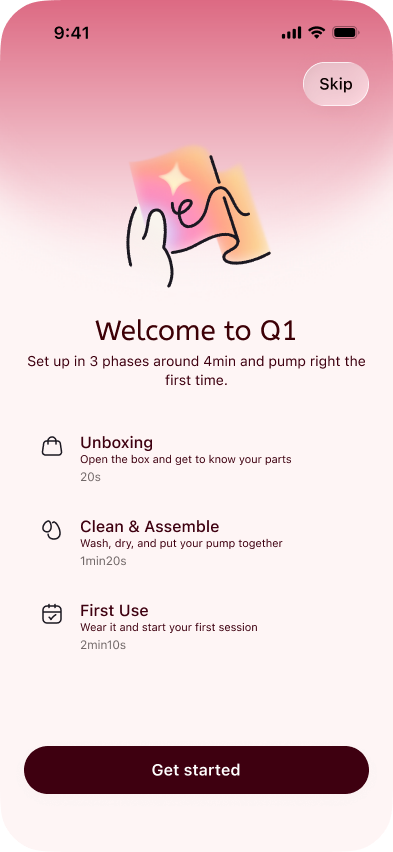
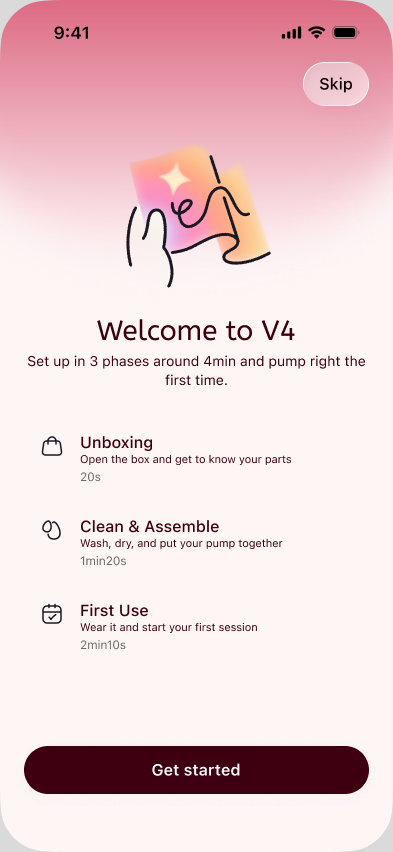
feat: sync updated figma pump screens

diff --git a/demo/feeding-care-flow/app.js b/demo/feeding-care-flow/app.js
@@ -1,5 +1,5 @@
 const ENTRY = document.body.dataset.entry || "launcher";
-const VERSION = "0.3.12";
+const VERSION = "0.3.13";
 const STORAGE_KEY = ENTRY === "home"
   ? `momcozy-figma-755-demo-v${VERSION}-home`
   : `momcozy-figma-755-demo-v3-${ENTRY}`;
@@ -48,6 +48,7 @@ const defaults = {
   trainingDone: false,
   codeDigit: "",
   pumpRunning: false,
+  pumpPaused: false,
   sessionLogged: false,
   leftVolume: 0,
   rightVolume: 0
@@ -237,7 +238,7 @@ function screenMarkup(kind) {
     ? `<span class="volume-value left" aria-live="polite">${state.leftVolume}<small>ml</small></span><span class="volume-value right" aria-live="polite">${state.rightVolume}<small>ml</small></span>`
     : "";
   const deviceOverlay = screen.image === "home-07-dashboard.png"
-    ? `<span class="dashboard-device-frame" aria-hidden="true"><img src="./assets/figma-755/home-dashboard-v3-device.png" width="138" height="104" alt="" draggable="false" /></span>`
+    ? `<span class="dashboard-device-frame" aria-hidden="true"><img src="./assets/figma-755/home-pump-control-device.png" width="182" height="138" alt="" draggable="false" /></span>`
     : "";
   const pumpControlDevice = screen.image === "home-03-control.png"
     ? `<span class="pump-control-device" aria-hidden="true"><img src="./assets/figma-755/home-pump-control-device.png" width="182" height="138" alt="" draggable="false" /></span>`
@@ -247,7 +248,10 @@ function screenMarkup(kind) {
     : "";
   const finishAction = screen.id === "pump-running" ? "hospital-finish-pump" : screen.id === "pumping" ? "finish-pump" : "";
   const holdControl = finishAction
-    ? `<button type="button" class="hold-to-finish" data-hold-action="${finishAction}" aria-label="长按结束本次吸乳" aria-pressed="false"><span>Hold to finish</span></button>`
+    ? `<div class="pumping-actions">
+        <button type="button" class="hold-to-finish" data-hold-action="${finishAction}" aria-label="长按结束本次吸乳" aria-pressed="false"><span>Hold to Finish</span></button>
+        <button type="button" class="pump-pause ${state.pumpPaused ? "paused" : ""}" data-action="toggle-pump-pause" aria-label="${state.pumpPaused ? "继续吸乳" : "暂停吸乳"}" aria-pressed="${state.pumpPaused}">${state.pumpPaused ? icon("play", "继续吸乳") : '<img src="./assets/figma-755/pump-pause.svg" width="20" height="20" alt="" draggable="false" />'}</button>
+      </div>`
     : "";
   const startControl = screen.image === "home-03-control.png"
     ? `<button type="button" class="start-pumping-floating" data-action="${kind === "hospital" ? "hospital-start-pump" : "start-pump"}">Start Pumping</button>`
@@ -256,7 +260,7 @@ function screenMarkup(kind) {
   return `<div class="screen-frame" style="--content-width:${screen.width};--content-height:${screen.height}">
     <div class="screen-scroll">
       <div class="screen-canvas">
-        <img class="figma-screen" src="./assets/figma-755/${screen.image}" width="${screen.width}" height="${screen.height}" alt="${screen.label}" draggable="false" />
+        <img class="figma-screen" src="./assets/figma-755/${screen.image}?v=${VERSION}" width="${screen.width}" height="${screen.height}" alt="${screen.label}" draggable="false" />
         ${deviceOverlay}
         ${pumpControlDevice}
         ${pumpControlButtonMask}
@@ -274,8 +278,8 @@ function prototypeToolbar(kind) {
   const step = Math.max(0, Math.min(screens.length - 1, state[`${kind}Step`]));
   const screenId = screens[step].id;
   const status = kind === "hospital"
-    ? (state.sessionLogged ? "吸乳记录已完成" : state.pumpRunning ? "正在吸乳" : step >= 11 ? "设备已就绪" : state.trainingDone ? "设备教学已完成" : state.deviceBound ? (step >= 7 ? "设备教学中" : "V4 已绑定") : "院端独立演示")
-    : (state.sessionLogged ? "本次记录已保存" : state.pumpRunning ? "正在吸乳" : screenId === "connect-connecting" ? "正在连接 V4" : screenId === "connect-done" ? "V4 连接完成" : state.homeDeviceConnected ? "V4 已连接" : "等待连接 V4");
+    ? (state.sessionLogged ? "吸乳记录已完成" : state.pumpRunning ? (state.pumpPaused ? "吸乳已暂停" : "正在吸乳") : step >= 11 ? "设备已就绪" : state.trainingDone ? "设备教学已完成" : state.deviceBound ? (step >= 7 ? "设备教学中" : "V4 已绑定") : "院端独立演示")
+    : (state.sessionLogged ? "本次记录已保存" : state.pumpRunning ? (state.pumpPaused ? "吸乳已暂停" : "正在吸乳") : screenId === "connect-connecting" ? "正在连接 V4" : screenId === "connect-done" ? "V4 连接完成" : state.homeDeviceConnected ? "V4 已连接" : "等待连接 V4");
   const ready = kind === "home" ? state.homeDeviceConnected : state.deviceBound;
   return `<div class="prototype-toolbar">
     <button class="tool-button navigation-trigger" data-action="navigation-open" title="打开 Demo 目录" aria-label="打开 Demo 目录" aria-expanded="${navigationOpen}">${icon("panel-left", "打开 Demo 目录")}</button>
@@ -389,12 +393,14 @@ function handleAction(action, target) {
             deviceBound: step >= 6,
             trainingDone: step >= 11,
             pumpRunning: screens[step].id === "pump-running",
+            pumpPaused: false,
             sessionLogged: step >= 14
           }
         : {
             homeDeviceConnected: step >= 4,
             trainingDone: step >= 8,
             pumpRunning: screens[step].id === "pumping",
+            pumpPaused: false,
             sessionLogged: step >= 11
           };
       navigationOpen = false;
@@ -411,8 +417,8 @@ function handleAction(action, target) {
     case "hospital-training-exit": setState({ hospitalStep: 6 }); break;
     case "complete-hospital": showToast("院端设备绑定演示已完成"); break;
     case "hospital-open-control": setState({ hospitalStep: hospitalScreens.findIndex(screen => screen.id === "pump-control"), trainingDone: true }, "院端设备教学已完成"); break;
-    case "hospital-start-pump": setState({ hospitalStep: hospitalScreens.findIndex(screen => screen.id === "pump-running"), pumpRunning: true }, "V4 已开始吸乳"); break;
-    case "hospital-finish-pump": setState({ hospitalStep: hospitalScreens.findIndex(screen => screen.id === "pump-finished"), pumpRunning: false }); break;
+    case "hospital-start-pump": setState({ hospitalStep: hospitalScreens.findIndex(screen => screen.id === "pump-running"), pumpRunning: true, pumpPaused: false }, "V4 已开始吸乳"); break;
+    case "hospital-finish-pump": setState({ hospitalStep: hospitalScreens.findIndex(screen => screen.id === "pump-finished"), pumpRunning: false, pumpPaused: false }); break;
     case "hospital-left-up": setState({ leftVolume: Math.min(300, state.leftVolume + 10) }); break;
     case "hospital-left-down": setState({ leftVolume: Math.max(0, state.leftVolume - 10) }); break;
     case "hospital-right-up": setState({ rightVolume: Math.min(300, state.rightVolume + 10) }); break;
@@ -427,8 +433,9 @@ function handleAction(action, target) {
     case "home-next": setState({ homeStep: Math.min(homeScreens.length - 1, state.homeStep + 1) }); break;
     case "home-prev": setState({ homeStep: Math.max(0, state.homeStep - 1) }); break;
     case "home-ready": setState({ homeStep: homeScreens.findIndex(screen => screen.id === "ready") }); break;
-    case "start-pump": setState({ homeStep: homeScreens.findIndex(screen => screen.id === "pumping"), pumpRunning: true }, "V4 已开始吸乳"); break;
-    case "finish-pump": setState({ homeStep: homeScreens.findIndex(screen => screen.id === "finished"), pumpRunning: false }); break;
+    case "start-pump": setState({ homeStep: homeScreens.findIndex(screen => screen.id === "pumping"), pumpRunning: true, pumpPaused: false }, "V4 已开始吸乳"); break;
+    case "finish-pump": setState({ homeStep: homeScreens.findIndex(screen => screen.id === "finished"), pumpRunning: false, pumpPaused: false }); break;
+    case "toggle-pump-pause": setState({ pumpPaused: !state.pumpPaused }, state.pumpPaused ? "继续吸乳" : "吸乳已暂停"); break;
     case "save-session": setState({ homeStep: homeScreens.findIndex(screen => screen.id === "logged"), sessionLogged: true }, "吸乳记录已保存"); break;
     case "show-dashboard": setState({ homeStep: homeScreens.findIndex(screen => screen.id === "dashboard") }); break;
     case "home-device": setState({ homeStep: homeScreens.findIndex(screen => screen.id === "device") }); break;

diff --git a/demo/feeding-care-flow/styles.css b/demo/feeding-care-flow/styles.css
@@ -84,11 +84,16 @@ button:disabled { cursor: default; opacity: .35; }
 .volume-value.left { left: 8.2%; }
 .volume-value.right { left: 59.5%; }
 .volume-value small { align-self: flex-end; margin-bottom: 10px; font-family: Inter, ui-sans-serif, sans-serif; font-size: 12px; }
-.hold-to-finish { position: absolute; z-index: 5; right: 16px; bottom: max(16px, env(safe-area-inset-bottom)); left: 16px; height: 52px; overflow: hidden; padding: 0; border: 0; border-radius: 999px; color: #fff; background: var(--accent); box-shadow: 0 8px 24px rgba(102,0,28,.22); font-size: 15px; font-weight: 650; touch-action: none; user-select: none; }
-.hold-to-finish::before { position: absolute; inset: 0; content: ""; background: #5f001b; transform: scaleX(0); transform-origin: left; transition: transform 1.2s linear; }
+.pumping-actions { position: absolute; z-index: 7; right: 7px; bottom: max(18px, env(safe-area-inset-bottom)); left: 7px; height: 60px; display: flex; gap: 9px; }
+.hold-to-finish { position: relative; flex: 1; min-width: 0; height: 60px; overflow: hidden; padding: 0; border: 0; border-radius: 999px; color: #770523; background: linear-gradient(180deg, rgba(238,156,167,.8) 0%, #ffc0cb 100%); box-shadow: 0 8px 40px rgba(0,0,0,.12); font-size: 16px; font-weight: 500; touch-action: none; user-select: none; }
+.hold-to-finish::before { position: absolute; inset: 0; content: ""; background: rgba(119,5,35,.18); transform: scaleX(0); transform-origin: left; transition: transform 1.2s linear; }
 .hold-to-finish.holding::before { transform: scaleX(1); }
 .hold-to-finish span { position: relative; z-index: 1; }
 .hold-to-finish:focus-visible { outline: 3px solid #1570ef; outline-offset: -3px; }
+.pump-pause { flex: 0 0 60px; width: 60px; height: 60px; display: grid; place-items: center; padding: 0; border: 0; border-radius: 50%; color: #fff; background: linear-gradient(178deg, rgba(117,0,31,.9) 1.3%, rgba(189,90,98,.9) 98.7%), #90253f; box-shadow: 0 8px 40px rgba(0,0,0,.12); }
+.pump-pause img, .pump-pause svg { width: 22px; height: 22px; }
+.pump-pause svg { fill: currentColor; stroke: currentColor; }
+.pump-pause:focus-visible { outline: 3px solid #1570ef; outline-offset: -3px; }
 .start-pumping-floating { position: absolute; z-index: 7; right: 26px; bottom: max(18px, env(safe-area-inset-bottom)); left: 26px; height: 56px; padding: 0 18px; border: 0; border-radius: 999px; color: #fff; background: var(--accent); box-shadow: 0 10px 28px rgba(102,0,28,.28); font-size: 16px; font-weight: 650; }
 .start-pumping-floating:hover { background: #780021; }
 .start-pumping-floating:focus-visible { outline: 3px solid #1570ef; outline-offset: -3px; }

diff --git a/demo/feeding-care-flow/hospital.html b/demo/feeding-care-flow/hospital.html
@@ -5,9 +5,9 @@
     <meta name="viewport" content="width=device-width, initial-scale=1" />
     <meta name="theme-color" content="#f3f2f1" />
     <title>Momcozy V4 院端设备配置 Demo</title>
-    <link rel="stylesheet" href="./styles.css?v=0.3.12" />
+    <link rel="stylesheet" href="./styles.css?v=0.3.13" />
     <script src="./assets/lucide.min.js" defer></script>
-    <script src="./app.js?v=0.3.12" defer></script>
+    <script src="./app.js?v=0.3.13" defer></script>
   </head>
   <body data-entry="hospital">
     <div id="app" class="app-shell"></div>

diff --git a/demo/feeding-care-flow/index.html b/demo/feeding-care-flow/index.html
@@ -5,9 +5,9 @@
     <meta name="viewport" content="width=device-width, initial-scale=1" />
     <meta name="theme-color" content="#f7f6f5" />
     <title>Momcozy V4 双场景独立 Demo</title>
-    <link rel="stylesheet" href="./styles.css?v=0.3.12" />
+    <link rel="stylesheet" href="./styles.css?v=0.3.13" />
     <script src="./assets/lucide.min.js" defer></script>
-    <script src="./app.js?v=0.3.12" defer></script>
+    <script src="./app.js?v=0.3.13" defer></script>
   </head>
   <body data-entry="launcher">
     <div id="app" class="app-shell"></div>

diff --git a/demo/feeding-care-flow/home.html b/demo/feeding-care-flow/home.html
@@ -5,9 +5,9 @@
     <meta name="viewport" content="width=device-width, initial-scale=1" />
     <meta name="theme-color" content="#f3f2f1" />
     <title>Momcozy V4 居家使用 Demo</title>
-    <link rel="stylesheet" href="./styles.css?v=0.3.12" />
+    <link rel="stylesheet" href="./styles.css?v=0.3.13" />
     <script src="./assets/lucide.min.js" defer></script>
-    <script src="./app.js?v=0.3.12" defer></script>
+    <script src="./app.js?v=0.3.13" defer></script>
   </head>
   <body data-entry="home">
     <div id="app" class="app-shell"></div>

diff --git a/demo/feeding-care-flow/CHANGELOG.md b/demo/feeding-care-flow/CHANGELOG.md
@@ -1,5 +1,12 @@
 # Changelog
 
+## 0.3.13 - 2026-08-20
+
+- 用 Figma 节点 `833:44820` 的最新整帧替换设备教学欢迎页，标题更新为 `Welcome to V4`。
+- 按 Figma 节点 `833:46196` 重做吸乳中底部控件：粉色 `Hold to Finish` 与独立暂停按钮。
+- 暂停按钮支持暂停/继续状态切换，不影响 1.2 秒长按结束逻辑。
+- 子首页 `Mobile flow` 缩略图替换为 V4 设备图，院端和居家端共用页面同步更新。
+
 ## 0.3.12 - 2026-08-20
 
 - 遮掉吸乳控制页整页截图中原有的 `Start Pumping` 按钮，解决滚动到底部时与悬浮按钮重叠的问题。
